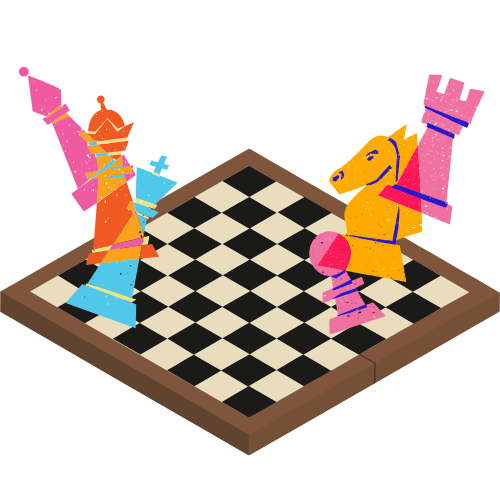
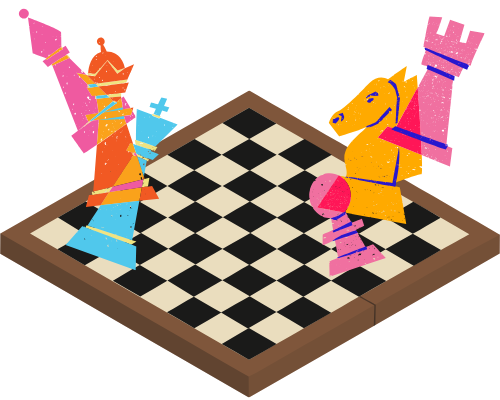
Renamed the html files to index.html to prevent url from showing the html file. Refurbished the chess meetings section.

diff --git a/events/index.html b/events/index.html
@@ -21,10 +21,10 @@
         <nav class="desktop-nav">
             <ul class="desktop-nav__items">
                 <li class="desktop-nav__item">
-                    <a href="../home.html">Home</a>
+                    <a href="../index.html">Home</a>
                 </li>
                 <li class="desktop-nav__item">
-                    <a href="events.html">Events</a>
+                    <a href="index.html">Events</a>
                 </li>
                 <li class="desktop-nav__item-club">
                         <a href="https://nau.campuslabs.com/engage/organization/chessclubatnau">
@@ -47,10 +47,10 @@
     <nav class="mobile-nav true-blue">
         <ul class="mobile-nav__items">
             <li class="mobile-nav__item">
-                <a href="../home.html">Home</a>
+                <a href="../index.html">Home</a>
             </li>
             <li class="mobile-nav__item">
-                <a href="events.html">Events</a>
+                <a href="index.html">Events</a>
             </li>
             <li class="mobile-nav__item-club">
                     <a href="https://nau.campuslabs.com/engage/organization/chessclubatnau">
@@ -73,20 +73,13 @@
         <h1 class="title true-blue">Upcoming Events</h1>
 
         <h2 class="subtitle red-rock">Chess Meetings</h2>
-        <!-- <div class="meeting__image-module">
-            <img src="../images/first_meeting.png" alt="Chess Meeting"
-                class="meeting__image">
-        </div> -->
 
         <section class="gathering__container monsoon">
             <div class="gathering__image-module">
                 <img src="../images/Boards_Pieces.png" alt="Board and Pieces"
-                    class="gathering__image">
+                    class="gathering__image-first">
             </div>
             <div class="gathering__text-module">
-                <p class="gathering__title">
-                    First Meeting
-                </p>
                 <p class="gathering__text">
                     Monday, September 8th, 2025
                 </p>
@@ -99,7 +92,7 @@
             </div>
             <div class="gathering__image-module">
                 <img src="../images/Boards_Pieces.png" alt="Board and Pieces"
-                    class="gathering__image">
+                    class="gathering__image-second">
             </div>
         </section>
 

diff --git a/index.html b/index.html
@@ -21,10 +21,10 @@
         <nav class="desktop-nav">
             <ul class="desktop-nav__items">
                 <li class="desktop-nav__item">
-                    <a href="home.html">Home</a>
+                    <a href="index.html">Home</a>
                 </li>
                 <li class="desktop-nav__item">
-                    <a href="events/events.html">Events</a>
+                    <a href="events/index.html">Events</a>
                 </li>
                 <li class="desktop-nav__item-club">
                         <a href="https://nau.campuslabs.com/engage/organization/chessclubatnau">
@@ -47,10 +47,10 @@
     <nav class="mobile-nav true-blue">
         <ul class="mobile-nav__items">
             <li class="mobile-nav__item">
-                <a href="home.html">Home</a>
+                <a href="index.html">Home</a>
             </li>
             <li class="mobile-nav__item">
-                <a href="events/events.html">Events</a>
+                <a href="events/index.html">Events</a>
             </li>
             <li class="mobile-nav__item-club">
                     <a href="https://nau.campuslabs.com/engage/organization/chessclubatnau">

diff --git a/events/events.css b/events/events.css
@@ -14,7 +14,7 @@
 
 .gathering__container
 {
-    width: 100%;
+    padding: 1rem;
 }
 
 .gathering__image-module,
@@ -23,7 +23,7 @@
     vertical-align: middle;
 }
 
-.gathering__image
+.gathering__image-first
 {
     display: block;
     width: 100%;
@@ -31,19 +31,15 @@
     margin: auto;
 }
 
-.gathering__title,
+.gathering__image-second
+{
+    display: none;
+}
+
 .gathering__text
 {
     text-align: center;
     margin: 0;
-}
-
-.gathering__title
-{
-    font-size: 2rem;
-    font-weight: bold;
-    padding: 1rem 0;
-    color: #013465;
 }
 
 .gathering__text
@@ -52,14 +48,8 @@
     color: #013220;
 }
 
-.gathering__text:last-child
-{
-    padding-bottom: 1rem;
-}
-
 .notes__list
 {
-    /* display: none; */
     margin: auto;
     width: auto;
     max-width: 50rem;
@@ -144,9 +134,15 @@
         width: 20rem;
     }
 
-    .gathering__image
+    .gathering__image-first
     {
         width: 100%;
         max-width: none;
+    }
+
+    .gathering__image-second
+    {
+        display: block;
+        width: 100%;
     }
 }
